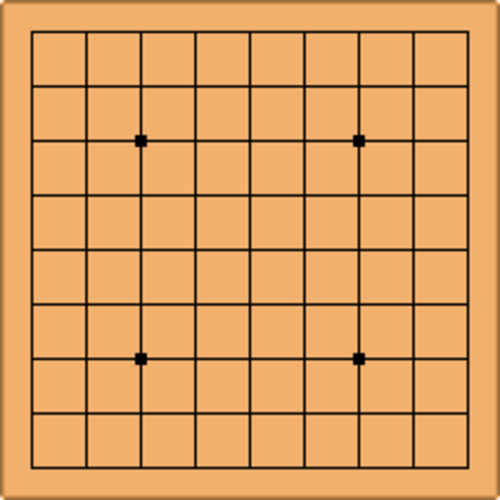
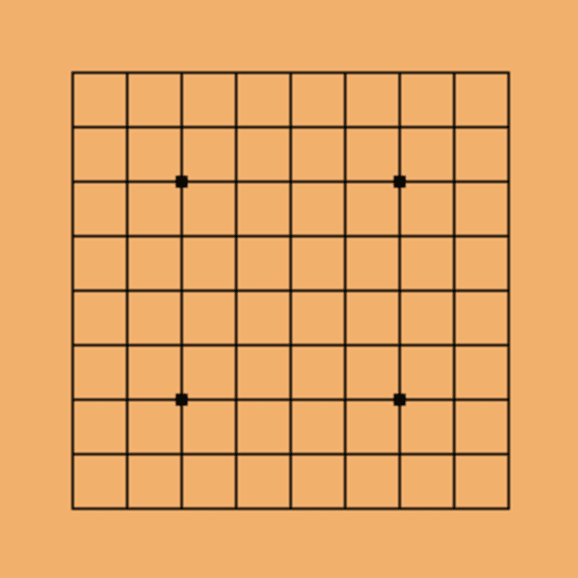
Implemented human v bot

Changed region(s): [[0.06, 0.06, 0.96, 0.96], [0.0, 0.0, 1.0, 1.0]]

diff --git a/algo/utils.py b/algo/utils.py
@@ -18,7 +18,10 @@ def print_move(player, move, matrix, img):
         move_str = '%s%d' % (COLS[move.point.col - 1], move.point.row)
     print('%s %s' % (player, move_str))
     coords = matrix[move_str]
-    display_move(player,img, coords)
+    print(coords)
+    print(move_str)
+    img_w_coords, game_state_img = display_move(player,img, coords, matrix)
+    return (img_w_coords, game_state_img)
 
 
 def print_board(board):
@@ -30,13 +33,18 @@ def print_board(board):
         print('%d %s' % (row, ''.join(line)))
     print('  ' + COLS[:board.num_cols])
 
-def display_move(player, img, coords):
+def display_move(player, img, coords, matrix):
+    inv_map = {v: k for k, v in matrix.items()}
+    game_state_img = None
     if player == player.white:
-        image = cv2.circle(img, coords, 20, (255, 255, 255), - 1)
+        game_state_img = (cv2.circle(img, coords, 20, (255, 255, 255), - 1)).copy()
+        img_w_coords = cv2.putText(img, str(inv_map[coords]), (520,30),
+        cv2.FONT_HERSHEY_SIMPLEX, 0.5, (255,255,255), 1, cv2.LINE_AA)
     else:
-        image = cv2.circle(img, coords, 20, (0, 0, 0), - 1)
-    cv2.imshow("", image)
-    cv2.waitKey(2)
+        game_state_img = (cv2.circle(img, coords, 20, (0, 0, 0), - 1)).copy()
+        img_w_coords = cv2.putText(img, str(inv_map[coords]), (270,30),
+        cv2.FONT_HERSHEY_SIMPLEX, 0.5, (0,0,0), 1, cv2.LINE_AA)
+    return (img_w_coords, game_state_img)
 
 def init_location():
     alpha_num = []
@@ -48,22 +56,54 @@ def init_location():
             temp = i+str(j)
             alpha_num.append(temp)
     alpha_num
-    x= y = [x for x in range(32,468,54)]
-
+    x= y = [x for x in range(72,510,54)]
     real_coords = list()
     for i in x:
         for j in y:
             real_coords.append((i,j))
     col_start = 8
     count = 1
-    dec = 8
+    inc = 8
     intersection_dict = dict()
     for alpha in alpha_num:
         if count % 10 == 0:
-            dec-=1
+            inc+=9
             count = 1
-            col_start = dec
+            col_start = inc
         intersection_dict.update({alpha : real_coords[col_start]})
-        col_start+=9
+        col_start-=1
         count+=1
     return (intersection_dict)
+
+def point_from_coords(coords):
+    col = COLS.index(coords[0]) + 1
+    row = int(coords[1:])
+    return gotypes.Point(row=row, col=col)
+
+def init_axes(img):
+    '''borderType = cv2.BORDER_CONSTANT
+    top = int(0.1 * img.shape[0])  # shape[0] = rows
+    bottom = top
+    left = int(0.1 * img.shape[1])  # shape[1] = cols
+    right = left
+    value = (109, 176, 242)
+    dst = cv2.copyMakeBorder(img, top, bottom, left, right, borderType, None, value)
+    dst = cv2.imwrite("board_3.png", dst)'''
+
+    count = 80
+    cols = "ABCDEFGHI"
+    for row in range(9,0,-1):
+        img = cv2.putText(img, str(row), (20,count),
+        cv2.FONT_HERSHEY_SIMPLEX, 0.5, (0,0,0), 1, cv2.LINE_AA)
+        count+=54
+    count = 68
+    for col in cols:
+        img = cv2.putText(img, str(col), (count,560),
+        cv2.FONT_HERSHEY_SIMPLEX, 0.5, (0,0,0), 1, cv2.LINE_AA)
+        count+=55
+
+    img = cv2.putText(img, "(BOT MOVE) - white: ", (350,30),
+    cv2.FONT_HERSHEY_SIMPLEX, 0.5, (255,255,255), 1, cv2.LINE_AA)
+    img = cv2.putText(img, "(PLAYER MOVE) - black: ", (72,30),
+    cv2.FONT_HERSHEY_SIMPLEX, 0.5, (0,0,0), 1, cv2.LINE_AA)
+    return img

diff --git a/human_v_bot.py b/human_v_bot.py
@@ -1,0 +1,31 @@
+import cv2
+from algo import agent
+from algo import goboard
+from algo import gotypes
+from algo.utils import print_board, print_move, point_from_coords, init_location, init_axes
+from six.moves import input
+
+
+def main():
+    board_size = 9
+    game = goboard.GameState.new_game(board_size)
+    bot = agent.RandomBot()
+    img = cv2.imread('algo/gamebooard.png')
+    img = init_axes(img)
+    game_state_img = img_w_coords = img
+    matrix = init_location()
+    while not game.is_over():
+        print(chr(27) + "[2J")
+        print_board(game.board)
+        cv2.imshow("VisGo", img_w_coords)
+        cv2.waitKey(1000)
+        if game.next_player == gotypes.Player.black:
+            human_move = input('-- ')
+            point = point_from_coords(human_move.strip())
+            move = goboard.Move.play(point)
+        else:
+            move = bot.select_move(game)
+        img_w_coords, game_state_img = print_move(game.next_player, move, matrix, game_state_img)
+        game = game.apply_move(game.next_player, move)
+if __name__ == '__main__':
+    main()
